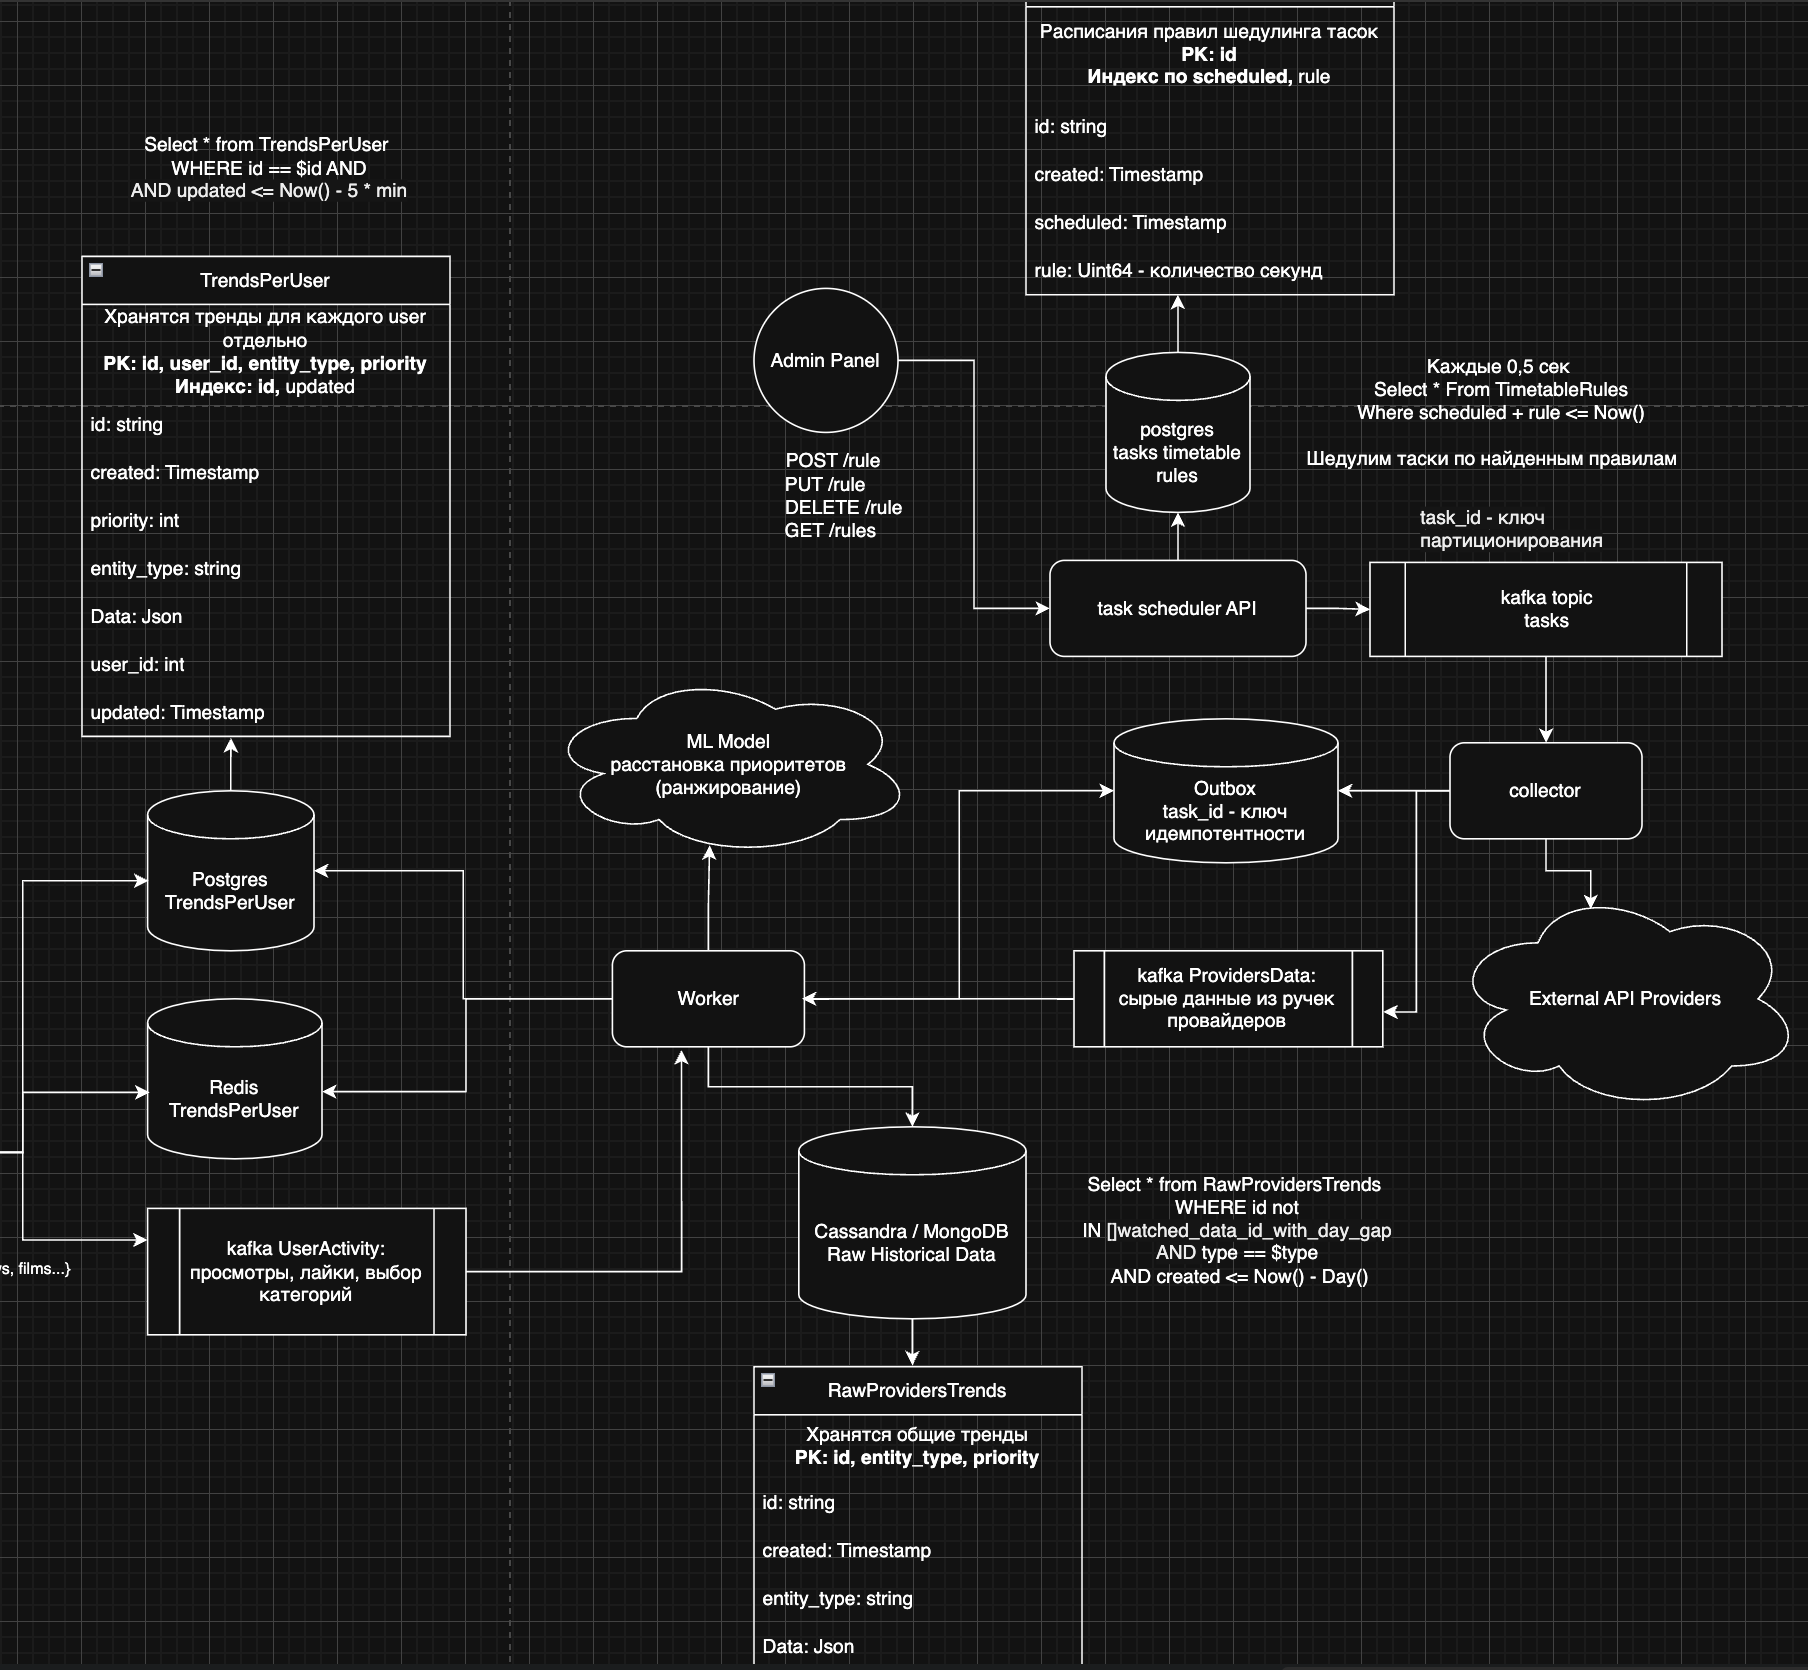
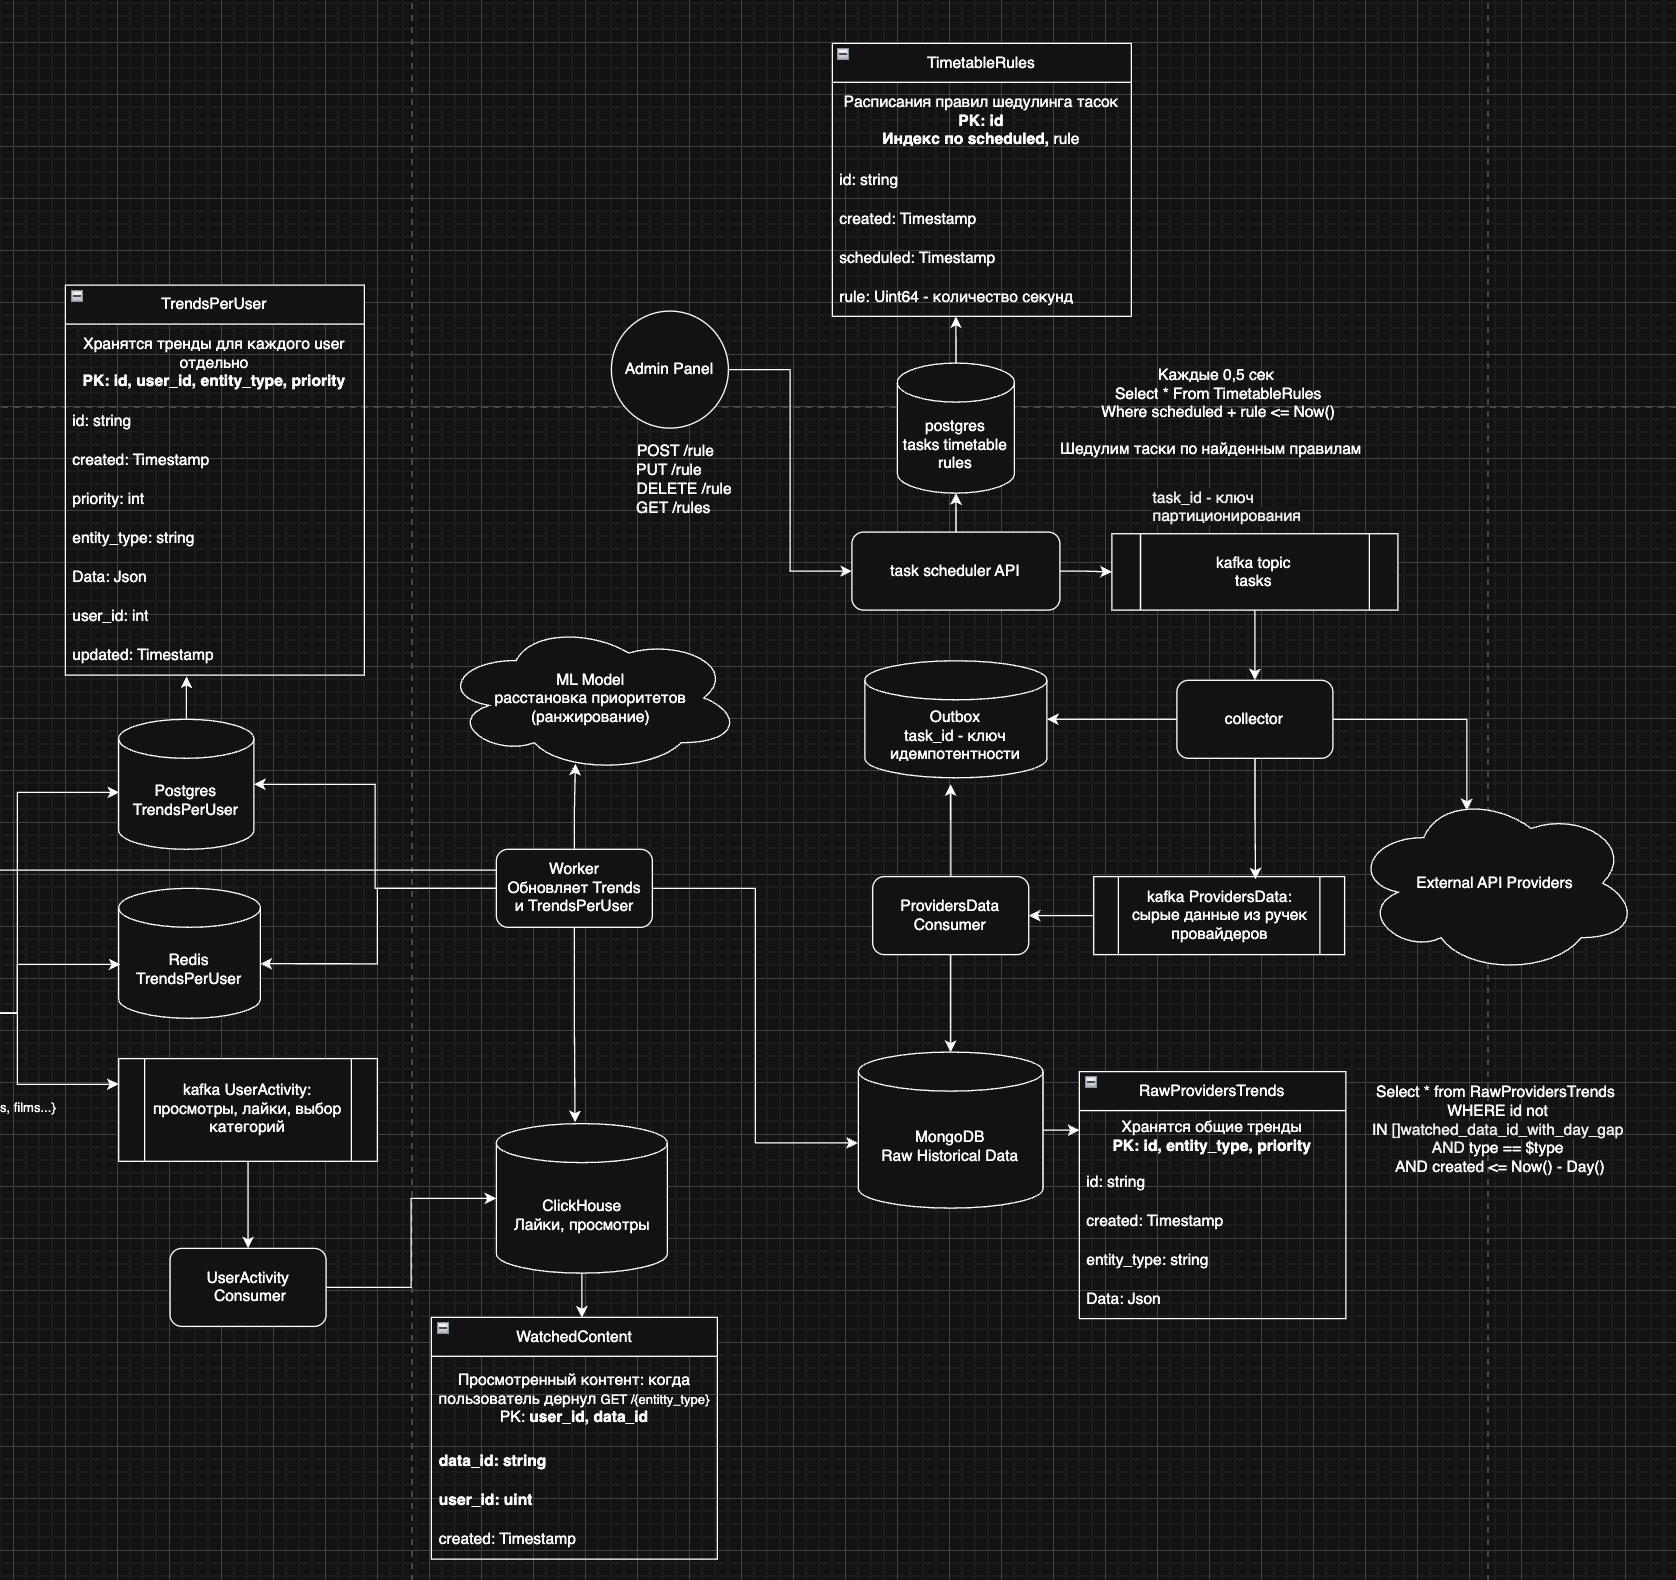
design

diff --git a/README.md b/README.md
@@ -24,7 +24,7 @@
 
 ## Общая Схема
 
-![](docs/img/architecture.png)
+![](docs/img/architecture.jpg)
 
 ## Базовая часть
 
